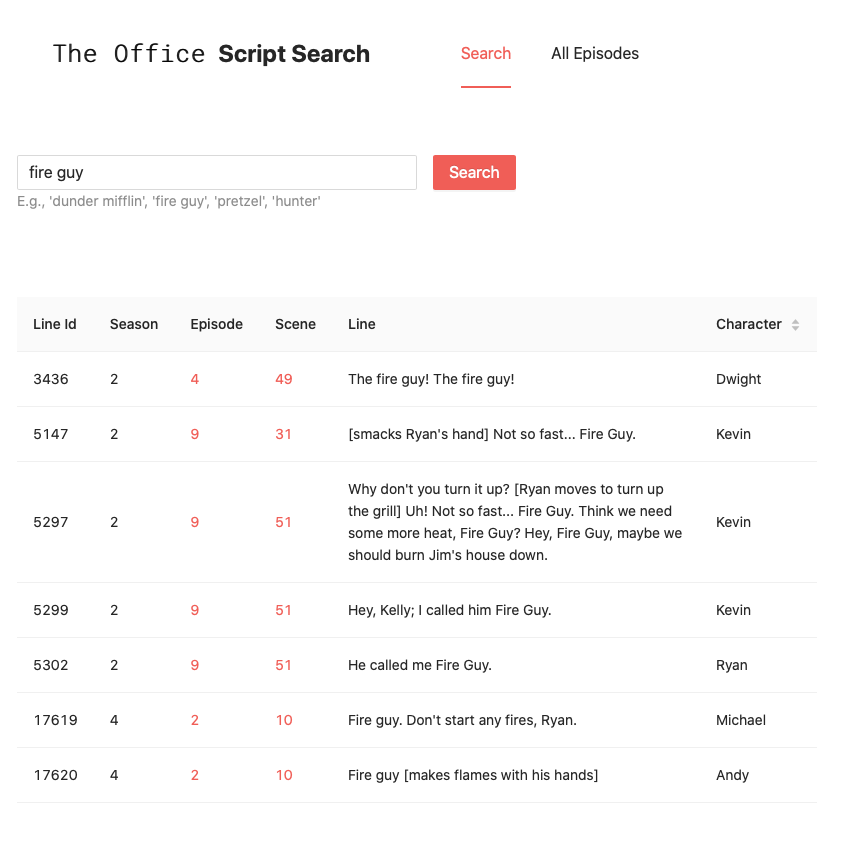
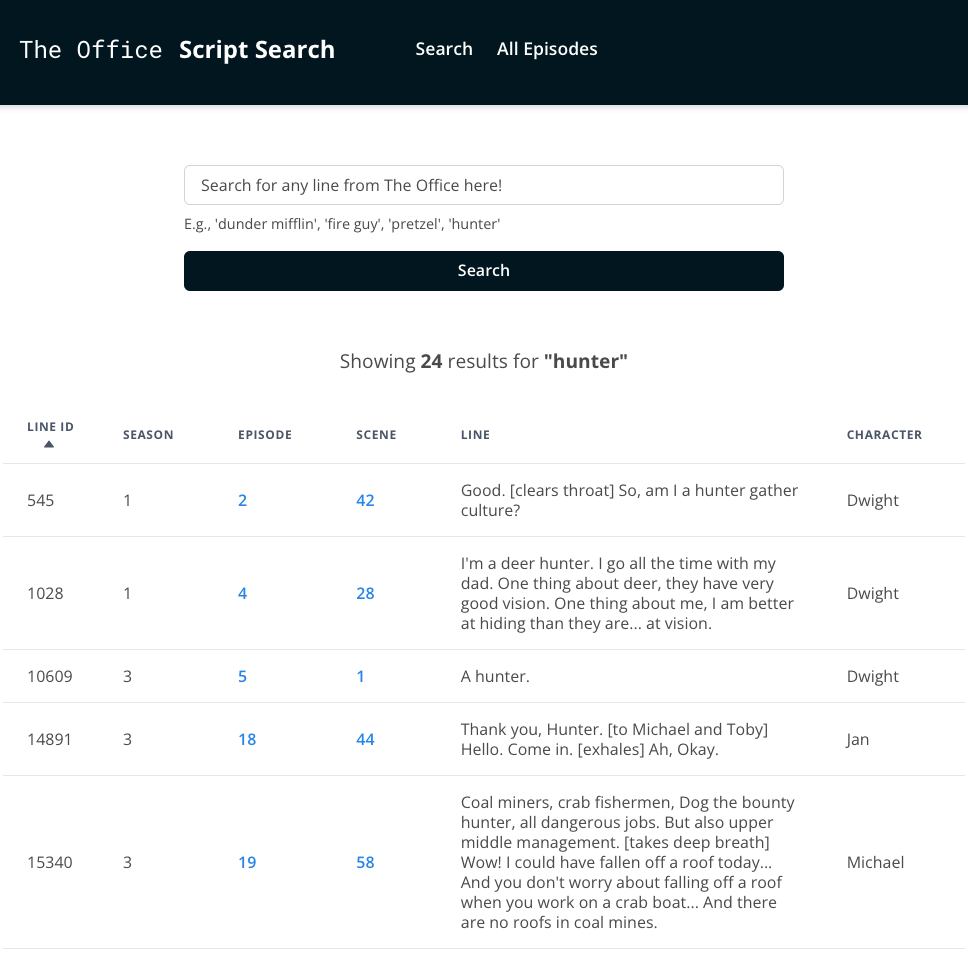
edit projects

diff --git a/data/projects.js b/data/projects.js
@@ -13,11 +13,11 @@ const {
 
 const projectsData = [
   {
-    url: 'https://theofficescriptsearch.herokuapp.com',
+    url: 'https://theofficescriptsearch.vercel.app',
     title: 'The Office Script Search App',
     imgSrc: theOfficeScriptSearch,
     description:
-      'This is a web app for searching for any line from the popular sitcom "The Office", built using React, Redux, AntDesign, Node, Express, MongoDB, and Heroku.',
+      'This is a web app for searching for any line from the popular sitcom "The Office", built using Next.js, Chakra UI, Supabase, and Vercel.',
   },
   {
     url: 'https://sgtrbc.vercel.app',
